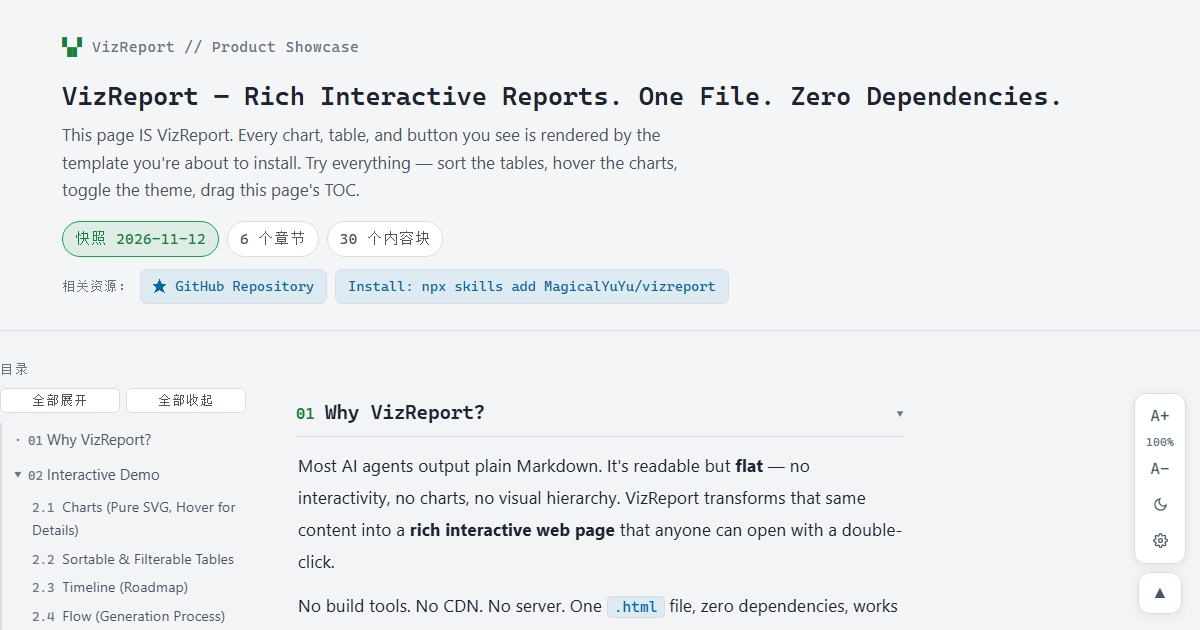
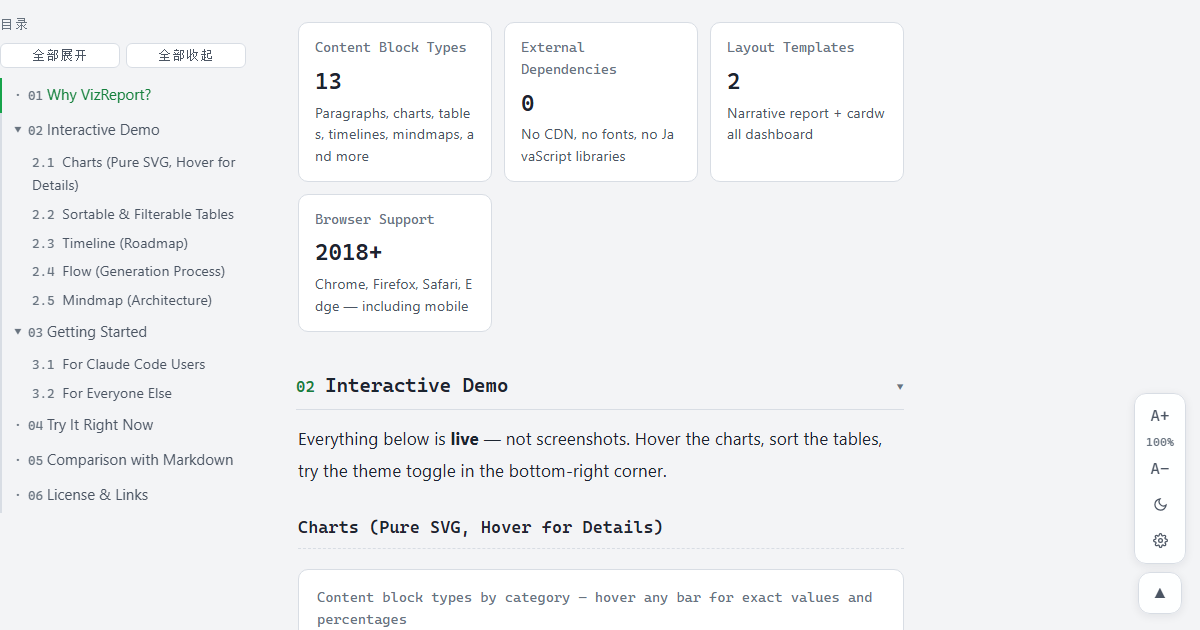
Polish: professional README (no emojis, no competitor names, compelling narrative), English social preview, demo GIF, GitHub topics

diff --git a/README.md b/README.md
@@ -1,138 +1,114 @@
 <p align="center">
-  <img src="docs/assets/social-preview.png" alt="VizReport — Rich Interactive Reports. One File. Zero Dependencies." width="100%">
+  <img src="docs/assets/social-preview.png" alt="VizReport" width="100%">
 </p>
 
-<h1 align="center">VizReport</h1>
+# VizReport
 
-<p align="center">
-  <strong>Rich interactive reports for everyone. One file. Zero dependencies.</strong>
-</p>
+**Rich interactive reports. One file. Zero dependencies.**
 
-<p align="center">
-  <sub><a href="README.zh-CN.md">中文文档</a> · <a href="https://magicalyu.github.io/vizreport">Live Demo</a></sub>
-</p>
+[中文文档](README.zh-CN.md) | [Live Demo](https://magicalyuyu.github.io/vizreport/)
 
 ---
 
-## What is VizReport?
+## The Problem
 
-VizReport is a Claude Code / agent skill that transforms any research, analysis, or project data into a **self-contained interactive HTML report**. No build tools, no CDN dependencies, no server required — just one `.html` file that opens in any modern browser.
+AI agents produce research reports as Markdown. Hundreds of lines of flat text. No charts, no tables you can sort, no way to navigate without scrolling endlessly. Reading the fifth report of the day, your eyes glaze over.
 
-**The report IS the demo.** [Click here to experience it live →](https://magicalyu.github.io/vizreport)
+We built VizReport because we were tired of this:
 
-## Why VizReport?
+- **Visualization gap**: Markdown renders as plain paragraphs. Numbers blur together. Trends are invisible without charts.
+- **Interaction gap**: You cannot sort a Markdown table. You cannot filter by a tag. You cannot collapse a section you do not need. You cannot adjust the text size.
+- **Sharing friction**: Send a `.md` file and the recipient needs a renderer. Send a VizReport and they double-click. Done.
 
-| Feature | VizReport | share-html | html-report-skill |
-|---------|-----------|------------|-------------------|
-| Layout templates | 2 (report + cardwall) | 5 styles | 1 |
-| Content block types | 13 (charts, timeline, flow, mindmap...) | Static paragraphs | Static paragraphs |
-| Charts (pure SVG, zero-dep) | ✅ bar / hbar / line / donut | ❌ | ❌ |
-| Sortable & filterable tables | ✅ 3-state sort + row filter + column filter | ❌ | ❌ |
-| TOC navigation | ✅ Sticky tree + collapsible + draggable | ❌ | ❌ |
-| Theme | ✅ Light/dark toggle + width slider | Fixed | Fixed |
-| Offline (no CDN) | ✅ | ✅ | ❌ |
-| QA automation | ✅ Playwright 50+ assertions + impeccable | ❌ | ❌ |
+## The Solution
+
+VizReport is an agent skill that transforms the same content into a **self-contained interactive HTML file**:
+
+- Charts rendered as pure SVG with hover tooltips (no CDN, works offline)
+- Tables with three-state sorting, keyword filtering, and per-column value filters
+- A sticky table of contents with collapsible sections
+- Light and dark themes with persistent preferences
+- Adjustable content width and five-step font sizing
+- All in one `.html` file, approximately 50-80 KB
+
+The report you are reading right now ([Live Demo](https://magicalyuyu.github.io/vizreport/)) is a VizReport file. Every feature described here can be tested on that page.
+
+## What It Looks Like
+
+![VizReport demo](docs/assets/demo.gif)
+
+![VizReport features](docs/assets/screenshot-features.png)
 
 ## Quick Start
 
-### Install as Claude Code Skill
+Install as a Claude Code skill:
 
 ```bash
 npx skills add MagicalYuYu/vizreport
 ```
 
-### Generate a Report
+Then ask your agent:
 
-Just tell Claude:
+> Turn this research into a visual report
 
-> "Turn this research into a visual report"
+The skill selects the appropriate layout (narrative report or cardwall dashboard), generates the data, and produces a single HTML file.
 
-Or use any agent that supports the skills standard. The agent will:
-1. Pick the right layout (narrative → `report`, list → `cardwall`)
-2. Generate the data island (JSON)
-3. Inject it into a template
-4. Run QA gates (optional but recommended)
-
-### Manual Use (No Agent Required)
-
-1. Download `templates/report.template.html`
-2. Open it in any text editor
-3. Find `<script id="aos-data">` and replace the JSON with your content
-4. Save and open in a browser
+No agent? Download a template from `templates/`, edit the JSON data island, and open in a browser.
 
 ## Content Blocks
 
-| Block | Use Case |
-|-------|----------|
-| `h` (level 1/2) | Section headings (auto TOC) |
-| `p` | Paragraphs with **bold**, `code`, [links](https://example.com) |
-| `ul` | Bullet lists |
-| `stats` | KPI cards with numbers |
-| `chart` | bar / hbar / line / donut (pure SVG, hover tooltips) |
-| `cards` | Mini card grids |
-| `table` | Sortable + filterable comparison tables |
-| `callout` | Highlighted notes (info / warning / danger / success) |
-| `quote` | Block quotes with attribution |
-| `img` | Images (local or remote, with fallback) |
-| `timeline` | Roadmap / milestone timelines |
-| `flow` | Process flows (horizontal ≤4 steps, vertical >4) |
-| `mindmap` | Concept maps (HTML/CSS, auto text wrapping) |
+VizReport supports thirteen content block types:
 
-## Interactive Features
+| Category | Blocks |
+|----------|--------|
+| Text | Heading (2 levels), paragraph (bold, code, links), bullet list, quote |
+| Data | Stat cards, charts (bar, horizontal bar, line, donut), tables |
+| Visual | Timeline, process flow, concept map (mindmap) |
+| Media | Images with captions, highlighted callouts |
 
-- **🔍 Search** across titles, tags, and content
-- **📊 Sort** tables by clicking headers (3-state: asc → desc → original)
-- **📋 Filter** by row keywords or per-column values (Excel-style)
-- **📈 Chart hover** shows detailed tooltips with percentages
-- **🌲 Collapsible sections** — click any heading to fold/unfold
-- **🎨 Theme toggle** — light/dark with persistent preference
-- **📏 Width slider** — pixel-precise content width (600–1800px)
-- **字号 A+/A−** — 5-step font size with memory
-- **🗺 Draggable TOC** — reposition the sidebar anywhere
-- **🖨 Print-ready** — auto switches to light theme, expands all sections
+All charts are rendered as inline SVG with zero external dependencies. All tables support sorting and filtering out of the box.
+
+## Comparison with Plain Markdown
+
+| Aspect | Markdown | VizReport |
+|--------|----------|-----------|
+| Charts | Not supported natively | Interactive SVG with hover details |
+| Tables | Static, no sorting | Three-state sort plus row and column filtering |
+| Navigation | Linear scrolling only | Sticky TOC with collapsible sections |
+| Themes | Reader-dependent | Light and dark toggle, saved across visits |
+| Text sizing | Reader-dependent | Built-in five-step control |
+| Sharing | Requires a Markdown renderer | Double-click any HTML file |
+| Offline | Depends on viewer | Zero network requests |
 
 ## Browser Compatibility
 
-| Browser | Support |
-|---------|---------|
-| Chrome / Edge (2018+) | ✅ Full |
-| Firefox (2018+) | ✅ Full |
-| Safari (macOS/iOS) | ✅ Full |
-| Mobile browsers | ✅ Responsive |
-| Offline / air-gapped | ✅ Zero network requests |
-| IE 11 | ❌ Not supported |
+Chrome, Firefox, Safari, and Edge (2018 and later). Mobile responsive. Works fully offline.
 
 ## Architecture
 
 ```
-┌─────────────────────────────────────────────┐
-│              Single HTML File               │
-├─────────────────────────────────────────────┤
-│  <script id="aos-data">                     │
-│    { meta, blocks: [...] }   ← Your data   │
-│  </script>                                  │
-│  <style> CSS tokens + themes </style>      │
-│  <script> Renderer (vanilla JS) </script>  │
-└─────────────────────────────────────────────┘
-         No build step · No CDN · No server
++-------------------------------------------+
+|            Single HTML File               |
++-------------------------------------------+
+|  <script id="aos-data">                   |
+|    { meta, blocks: [...] }  <- Your data  |
+|  </script>                                |
+|  <style> CSS tokens + themes </style>    |
+|  <script> Renderer (vanilla JS) </script>|
++-------------------------------------------+
+        No build step. No CDN. No server.
 ```
 
 ## Report Index
 
-Generate a searchable index of all your reports:
+Generate a searchable index page for all your reports:
 
 ```bash
 python scripts/build_index.py
 ```
 
-Creates `showcase-index.html` with card/list/detail views, search, pin/hide, and iframe preview.
+Produces a self-contained `showcase-index.html` with card, list, and detail views. Search, pin, hide, and iframe preview are built in.
 
 ## License
 
 MIT
-
----
-
-<p align="center">
-  <sub>Built with <a href="https://github.com/MagicalYuYu/vizreport">VizReport</a> itself. The <a href="https://magicalyu.github.io/vizreport">live demo</a> is a VizReport report.</sub>
-</p>

diff --git a/README.zh-CN.md b/README.zh-CN.md
@@ -2,30 +2,46 @@
 
 **单文件·零依赖·富交互报告生成器**
 
-> [English Documentation](README.md) · [在线演示](https://magicalyu.github.io/vizreport)
+> [English](README.md) | [在线演示](https://magicalyuyu.github.io/vizreport/)
 
-## 什么是 VizReport？
+## 为什么需要 VizReport？
 
-VizReport 是一个 Claude Code / Agent Skill，把任何调研、分析或项目数据转化为**自包含的交互式 HTML 报告**。无需构建工具、无需 CDN、无需服务器——一个 `.html` 文件，双击即开。
+AI Agent 产出的调研报告通常是 Markdown——大段纯文本、无图表、无排序、无导航。读到第五份的时候，眼睛已经花了。
 
-## 快速开始
+VizReport 解决两个问题：
+
+- **可视化**：柱状图/折线图/圆环图（纯 SVG 零依赖，悬停显示详情）、可排序筛选的表格、时间线、流程图、思维导图
+- **交互性**：粘滞目录、章节折叠、主题切换、字号调节、宽度滑条——读者的每一次操作都是即时的
+
+## 效果
+
+所有功能可以直接在[在线演示](https://magicalyuyu.github.io/vizreport/)中体验——那个页面本身就是一份 VizReport 报告。
+
+## 安装
 
 ```bash
 npx skills add MagicalYuYu/vizreport
 ```
 
-然后对 Claude 说「把这次调研做成可视化报告」即可。
+然后对 Agent 说「把这次调研做成可视化报告」。
 
-也可以手动使用：下载 `templates/report.template.html`，修改其中的 JSON 数据岛，浏览器打开。
+也可以手动使用：下载 `templates/` 里的模板，修改 JSON 数据岛，浏览器打开。
 
-## 核心特性
+## 与 Markdown 的区别
 
-- **13 种内容块**：段落 / 列表 / 统计卡 / 图表（柱状/条形/折线/圆环）/ 卡片墙 / 表格 / 提示框 / 引文 / 图片 / 时间线 / 流程图 / 思维导图
-- **全交互**：搜索 / 三态排序 / 行筛选 + 列筛选 / 章节折叠 / 主题切换 / 宽度滑条 / 字号调节 / 可拖拽目录
-- **纯 SVG 图表**：悬停显示详情（数值+占比+基数），零外部依赖
-- **双布局**：叙事报告（report）+ 清单看板（cardwall），Agent 自动路由
-- **报告索引**：一键生成全部报告的统一索引页
-- **离线可用**：零网络请求，2018 年后的任何浏览器都能打开
+| 方面 | Markdown | VizReport |
+|------|----------|-----------|
+| 图表 | 原生不支持 | 交互式 SVG（悬停显示数值与占比） |
+| 表格 | 静态，不可排序 | 三态排序 + 行筛选 + 列筛选 |
+| 导航 | 只能滚动 | 粘滞目录 + 可折叠章节 |
+| 主题 | 依赖阅读器 | 亮色/暗色切换，跨文件记忆 |
+| 字号 | 依赖阅读器 | 内置五档调节 |
+| 分享 | 需要 Markdown 渲染器 | 双击任何 HTML 文件 |
+| 离线 | 取决于查看器 | 零网络请求 |
+
+## 浏览器兼容
+
+Chrome、Firefox、Safari、Edge（2018 年及以后）。手机自适应。完全离线可用。
 
 ## 许可
 
